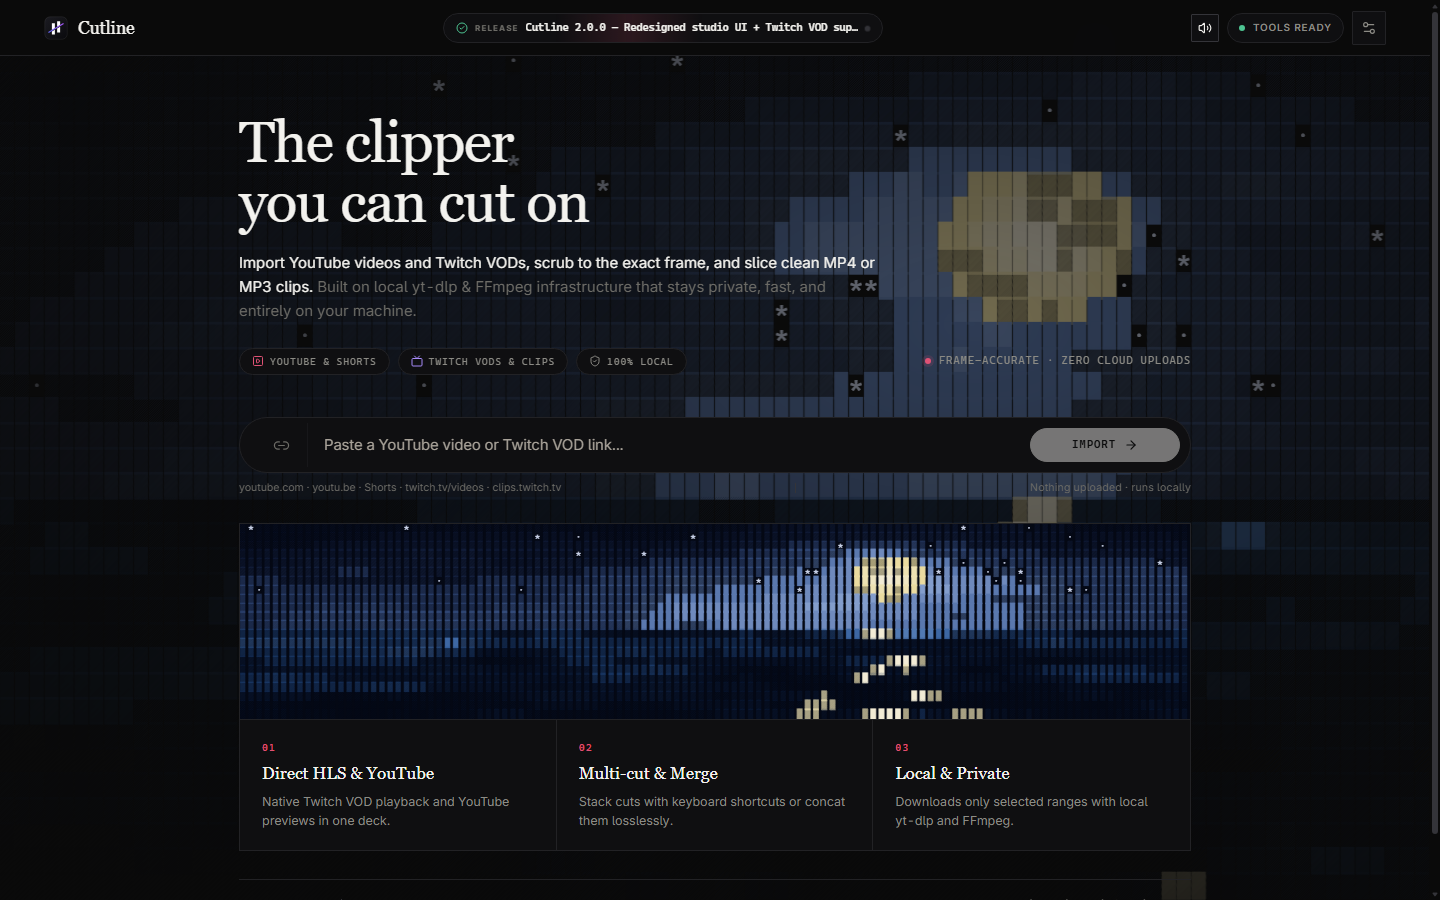
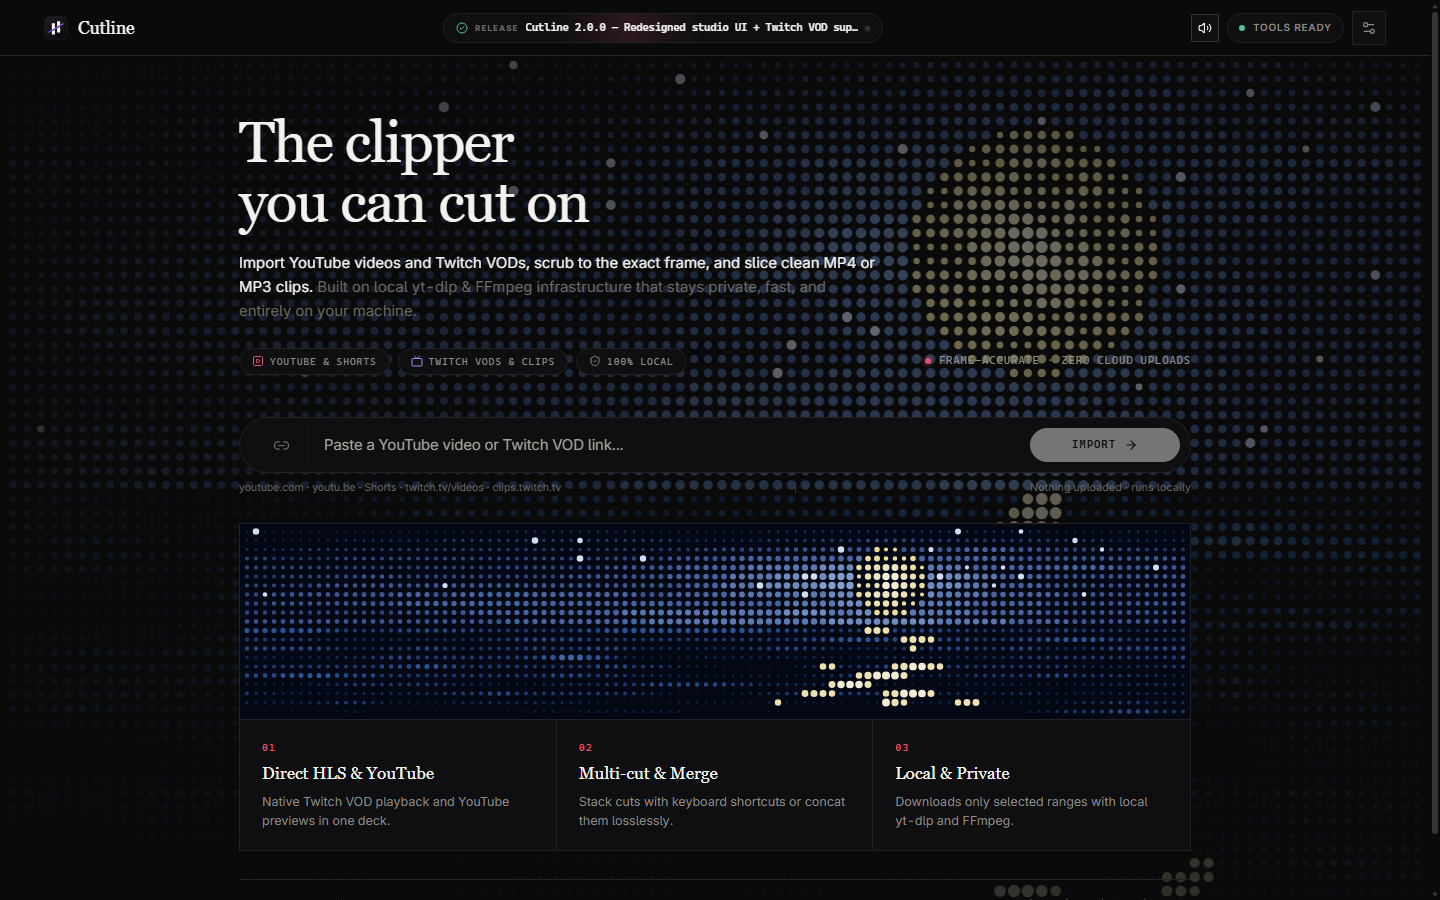
Switch animated Moonlit Sea backdrop and panorama to halftone dots

diff --git a/src/components/AsciiBackdrop.tsx b/src/components/AsciiBackdrop.tsx
@@ -2,20 +2,21 @@ import { memo, useEffect, useRef } from "react";
 
 interface AsciiBackdropProps {
   /**
-   * "ambient": full-viewport animated Moonlit Sea background (higher opacity on landing,
-   *            lower opacity while clipping via CSS).
+   * "ambient": full-viewport animated Moonlit Sea halftone background (higher opacity on
+   *            landing, lower opacity while clipping via CSS).
    * "band":    framed showcase panorama on the landing screen.
    */
   variant?: "ambient" | "band";
 }
 
 /*
- * Moonlit Sea animated ASCII art — adapted from ascii-magic-art (MIT License)
+ * Moonlit Sea animated halftone dot field — adapted from ascii-magic-art (MIT License)
  * https://www.ascii-magic.com/ascii/moonlit-sea
  */
 const clamp = (v: number, a = 0, b = 1) => (v < a ? a : v > b ? b : v);
 const lerp = (a: number, b: number, t: number) => a + (b - a) * t;
 const smooth = (t: number) => t * t * (3 - 2 * t);
+const TAU = Math.PI * 2;
 
 function rng(seed = 7) {
   let a = seed >>> 0;
@@ -82,7 +83,6 @@ const SEA = gradient(["#071226", "#123063", "#2c5a9a", "#6b93cc"], 10);
 const MOON = gradient(["#f7e7a8", "#fff8e0"], 4);
 const STAR_COLOR = "#dfe8ff";
 const PALETTE = [...SKY, ...SEA, ...MOON, STAR_COLOR];
-const SHADE = " ░▒▓█";
 
 const TARGET_FPS = 20;
 const FRAME_INTERVAL_MS = 1000 / TARGET_FPS;
@@ -98,24 +98,16 @@ export const AsciiBackdrop = memo(function AsciiBackdrop({
     const ctx = canvas.getContext("2d", { alpha: true });
     if (!ctx) return;
 
-    const cols = variant === "band" ? 116 : 96;
-    const rows = variant === "band" ? 22 : 36;
-    const horizon = Math.floor(rows * 0.56);
-    const mx = cols * (variant === "band" ? 0.68 : 0.72);
-    const my = rows * 0.26;
-    const mr = variant === "band" ? 4.8 : 6.5;
-
-    const r = rng(7);
-    const stars: Array<[number, number, number]> = Array.from({ length: 55 }, () => [
-      Math.floor(r() * cols),
-      Math.floor(r() * Math.max(1, horizon - 4)),
-      r() * 6.28,
-    ]);
-
-    let cellW = 10;
-    let cellH = 18;
+    const pitch = variant === "band" ? 9 : 14;
     let width = 0;
     let height = 0;
+    let cols = 0;
+    let rows = 0;
+    let offsetX = 0;
+    let offsetY = 0;
+    let stars: Array<[number, number, number]> = [];
+    let radii = new Float32Array(0);
+    let colors = new Uint8Array(0);
 
     const resize = () => {
       const parent = variant === "band" ? canvas.parentElement : null;
@@ -130,11 +122,22 @@ export const AsciiBackdrop = memo(function AsciiBackdrop({
       canvas.height = Math.round(cssH * dpr);
       ctx.setTransform(dpr, 0, 0, dpr, 0, 0);
 
-      cellW = cssW / cols;
-      cellH = cssH / rows;
-      const fontSize = Math.max(8, Math.min(cellH * 0.96, cellW * 1.75));
-      ctx.font = `${fontSize.toFixed(1)}px "Cascadia Mono", "SFMono-Regular", Consolas, monospace`;
-      ctx.textBaseline = "top";
+      cols = Math.max(16, Math.floor(cssW / pitch));
+      rows = Math.max(10, Math.floor(cssH / pitch));
+      offsetX = (cssW - cols * pitch) * 0.5 + pitch * 0.5;
+      offsetY = (cssH - rows * pitch) * 0.5 + pitch * 0.5;
+
+      radii = new Float32Array(cols * rows);
+      colors = new Uint8Array(cols * rows);
+
+      const horizon = Math.floor(rows * 0.56);
+      const r = rng(7);
+      const starCount = variant === "band" ? 45 : 75;
+      stars = Array.from({ length: starCount }, () => [
+        Math.floor(r() * cols),
+        Math.floor(r() * Math.max(1, horizon - 3)),
+        r() * TAU,
+      ]);
     };
 
     resize();
@@ -145,84 +148,110 @@ export const AsciiBackdrop = memo(function AsciiBackdrop({
     if (observer && canvas.parentElement) observer.observe(canvas.parentElement);
     window.addEventListener("resize", resize);
 
-    const chars = new Array<string>(cols * rows);
-    const colors = new Uint8Array(cols * rows);
-
     const drawFrame = (t: number) => {
-      if (width <= 0 || height <= 0) return;
+      if (width <= 0 || height <= 0 || cols === 0 || rows === 0) return;
 
-      // Sky: gradient lit around the moon with slow cloud bands
+      const horizon = Math.floor(rows * 0.56);
+      const mx = cols * (variant === "band" ? 0.68 : 0.72);
+      const my = rows * 0.27;
+      const mr = Math.max(3.6, Math.min(cols, rows) * (variant === "band" ? 0.19 : 0.14));
+      const maxR = pitch * 0.46;
+      // Normalize coordinates to the original 96x36 field so wave proportions stay faithful
+      const sxScale = 96 / cols;
+      const syScale = 36 / rows;
+
+      // Sky: halftone dots lit around the moon with slow drifting clouds
       for (let y = 0; y < horizon; y++) {
         const yOff = y * cols;
+        const ny = y * syScale;
         for (let x = 0; x < cols; x++) {
-          const dm = Math.hypot((x - mx) / 2, y - my);
+          const nx = x * sxScale;
+          const dm = Math.hypot((x - mx) * sxScale * 0.5, (y - my) * syScale);
           const glow = Math.exp(-dm / 9);
-          const cloud = fbm(x * 0.035 + t * 0.04, y * 0.16, 4);
-          const v = clamp(0.25 + (y / horizon) * 0.35 + glow * 0.5 + (cloud - 0.5) * 0.6);
-          chars[yOff + x] = SHADE[1 + Math.min(3, Math.floor(v * 4))];
+          const cloud = fbm(nx * 0.035 + t * 0.04, ny * 0.16, 4);
+          const v = clamp(0.22 + (y / Math.max(1, horizon)) * 0.35 + glow * 0.52 + (cloud - 0.5) * 0.58);
+          radii[yOff + x] = maxR * (0.16 + v * 0.78);
           colors[yOff + x] = Math.min(9, Math.floor(v * 10));
         }
       }
 
-      // Twinkling stars
+      // Twinkling star dots
       for (let i = 0; i < stars.length; i++) {
         const [sx, sy, ph] = stars[i];
         const tw = Math.sin(t * 1.6 + ph);
-        if (tw > 0) {
-          chars[sy * cols + sx] = tw > 0.75 ? "*" : "·";
+        if (tw > 0.15 && sx < cols && sy < horizon) {
+          radii[sy * cols + sx] = maxR * (0.36 + tw * 0.44);
           colors[sy * cols + sx] = 24;
         }
       }
 
-      // Full moon with soft limb and craters
-      for (let y = 0; y < horizon; y++) {
+      // Full moon rendered as dense luminous golden halftone dots with subtle craters
+      const minMy = Math.max(0, Math.floor(my - mr - 1));
+      const maxMy = Math.min(horizon - 1, Math.ceil(my + mr + 1));
+      const minMx = Math.max(0, Math.floor(mx - mr - 1));
+      const maxMx = Math.min(cols - 1, Math.ceil(mx + mr + 1));
+      for (let y = minMy; y <= maxMy; y++) {
         const yOff = y * cols;
-        for (let x = 0; x < cols; x++) {
-          const d = Math.hypot((x - mx) / mr, (y - my) / (mr * 0.5));
+        for (let x = minMx; x <= maxMx; x++) {
+          const d = Math.hypot(x - mx, y - my) / mr;
           if (d < 1) {
-            const crater = fbm(x * 0.4, y * 0.8, 2) > 0.62;
-            chars[yOff + x] = crater ? "▓" : "█";
-            colors[yOff + x] = 20 + Math.min(3, Math.max(0, Math.floor((1 - d) * 4 + (crater ? -1 : 0))));
+            const crater = fbm(x * sxScale * 0.4, y * syScale * 0.8, 2) > 0.62;
+            const limb = 1 - d * 0.32;
+            radii[yOff + x] = maxR * clamp((crater ? 0.72 : 0.96) * limb, 0.35, 1.0);
+            colors[yOff + x] =
+              20 + Math.min(3, Math.max(0, Math.floor((1 - d) * 4 + (crater ? -1 : 0))));
           }
         }
       }
 
-      // Moving sea swell with broken moonlit reflection path
+      // Moving sea swell with broken golden moonlit reflection dots
       for (let y = horizon; y < rows; y++) {
         const yOff = y * cols;
+        const ny = y * syScale;
         const depth = (y - horizon) / Math.max(1, rows - horizon);
         for (let x = 0; x < cols; x++) {
-          const w = fbm(x * 0.07 - t * 0.3, y * 0.6 + t * 0.1, 3);
-          const beam = Math.exp(-(((x - mx) / (4 + depth * 12)) ** 2));
+          const nx = x * sxScale;
+          const w = fbm(nx * 0.07 - t * 0.3, ny * 0.6 + t * 0.1, 3);
+          const beam = Math.exp(-((((x - mx) * sxScale) / (4 + depth * 12)) ** 2));
           const glint =
             beam *
-            (0.55 + 0.45 * Math.sin(t * 2.6 + x * 0.6 + y * 1.3)) *
+            (0.55 + 0.45 * Math.sin(t * 2.6 + nx * 0.6 + ny * 1.3)) *
             (w > 0.45 ? 1 : 0.4);
-          if (glint > 0.5) {
-            chars[yOff + x] = glint > 0.78 ? "█" : "▓";
+          if (glint > 0.48) {
+            radii[yOff + x] = maxR * (0.58 + clamp(glint, 0, 1) * 0.4);
             colors[yOff + x] = 20 + (glint > 0.78 ? 3 : 1);
           } else {
-            const v = clamp(0.55 - depth * 0.35 + (w - 0.5) * 0.9);
-            chars[yOff + x] = SHADE[1 + Math.min(3, Math.floor(v * 4))];
+            const v = clamp(0.54 - depth * 0.34 + (w - 0.5) * 0.88);
+            radii[yOff + x] = maxR * (0.14 + v * 0.76);
             colors[yOff + x] = 10 + Math.min(9, Math.floor(v * 10));
           }
         }
       }
 
+      // Batch dots by color palette index for minimal canvas state changes
       ctx.clearRect(0, 0, width, height);
-      let lastColor = -1;
-      for (let y = 0; y < rows; y++) {
-        const py = y * cellH;
-        const yOff = y * cols;
-        for (let x = 0; x < cols; x++) {
-          const ch = chars[yOff + x];
-          if (ch === " ") continue;
-          const ci = colors[yOff + x];
-          if (ci !== lastColor) {
-            ctx.fillStyle = PALETTE[ci];
-            lastColor = ci;
+      for (let ci = 0; ci < PALETTE.length; ci++) {
+        let hasAny = false;
+        for (let y = 0; y < rows; y++) {
+          const yOff = y * cols;
+          const cy = offsetY + y * pitch;
+          for (let x = 0; x < cols; x++) {
+            const idx = yOff + x;
+            if (colors[idx] !== ci) continue;
+            const rad = radii[idx];
+            if (rad < 0.35) continue;
+            if (!hasAny) {
+              ctx.beginPath();
+              hasAny = true;
+            }
+            const cx = offsetX + x * pitch;
+            ctx.moveTo(cx + rad, cy);
+            ctx.arc(cx, cy, rad, 0, TAU);
           }
-          ctx.fillText(ch, x * cellW, py);
+        }
+        if (hasAny) {
+          ctx.fillStyle = PALETTE[ci];
+          ctx.fill();
         }
       }
     };

diff --git a/README.md b/README.md
@@ -31,7 +31,7 @@ Instead of downloading an entire multi-hour VOD or video just to trim out a 30-s
 
 Grab the installer from `src-tauri/target/release/bundle/nsis/Cutline_2.0.0_x64-setup.exe` after building, or download a release.
 
[2 lines of base64/hex data omitted]
 
 You need:
 
